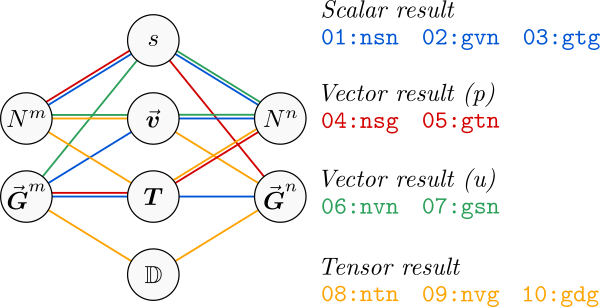
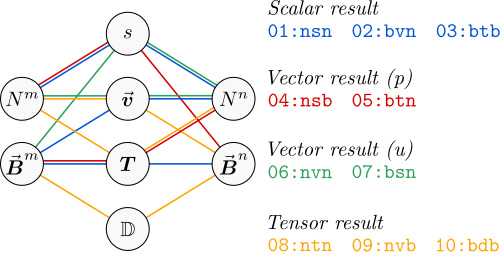
Rename last G refs to B

diff --git a/src/integ/mat_05_btn.rs b/src/integ/mat_05_btn.rs
@@ -11,7 +11,7 @@ use russell_tensor::Tensor2;
 ///
 /// **Notes:**
 ///
-/// * `m` ranges over the number of nodes of the *lower-order* shape specified by `pad_b` (for `Gbᵐ`)
+/// * `m` ranges over the number of nodes of the *lower-order* shape specified by `pad_b` (for `Bbᵐ`)
 /// * `n` ranges over the number of nodes of the *driver* shape specified by `pad` (for `Nⁿ`)
 /// * For example, `1 ≤ m ≤ 4` for a `pad_b→Qua4` and `1 ≤ n ≤ 8` for `pad→Qua8`
 /// * The determinant of the Jacobian is calculated for `pad` (`pad` is the driver of the calculations)
@@ -21,7 +21,7 @@ use russell_tensor::Tensor2;
 ///
 /// ```text
 /// →     ⌠ →
-/// Kᵐⁿ = │ Gbᵐ ⋅ T Nⁿ α dΩ
+/// Kᵐⁿ = │ Bbᵐ ⋅ T Nⁿ α dΩ
 ///       ⌡       ▔
 ///       Ωₑ
 /// ```
@@ -30,7 +30,7 @@ use russell_tensor::Tensor2;
 ///
 /// ```text
 ///        nip-1      →       →      →       →
-/// Kᵐⁿⱼ ≈   Σ   Gbᵐᵢ(ιᵖ) Tᵢⱼ(ιᵖ) Nⁿ(ιᵖ) |J|(ιᵖ) wᵖ α
+/// Kᵐⁿⱼ ≈   Σ   Bbᵐᵢ(ιᵖ) Tᵢⱼ(ιᵖ) Nⁿ(ιᵖ) |J|(ιᵖ) wᵖ α
 ///         p=0
 /// ```
 ///

diff --git a/src/integ/mod.rs b/src/integ/mod.rs
@@ -139,7 +139,7 @@
 //!
 //! ```text
 //! →     ⌠ →
-//! Kᵐⁿ = │ Gbᵐ ⋅ T Nⁿ dΩ
+//! Kᵐⁿ = │ Bbᵐ ⋅ T Nⁿ dΩ
 //!       ⌡       ▔
 //!       Ωₑ
 //! ```
